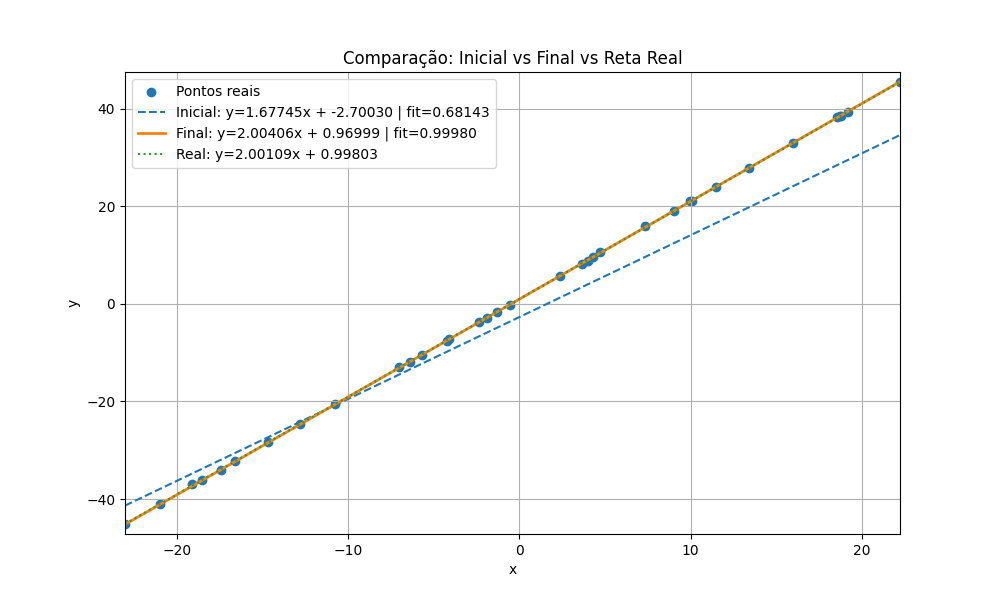
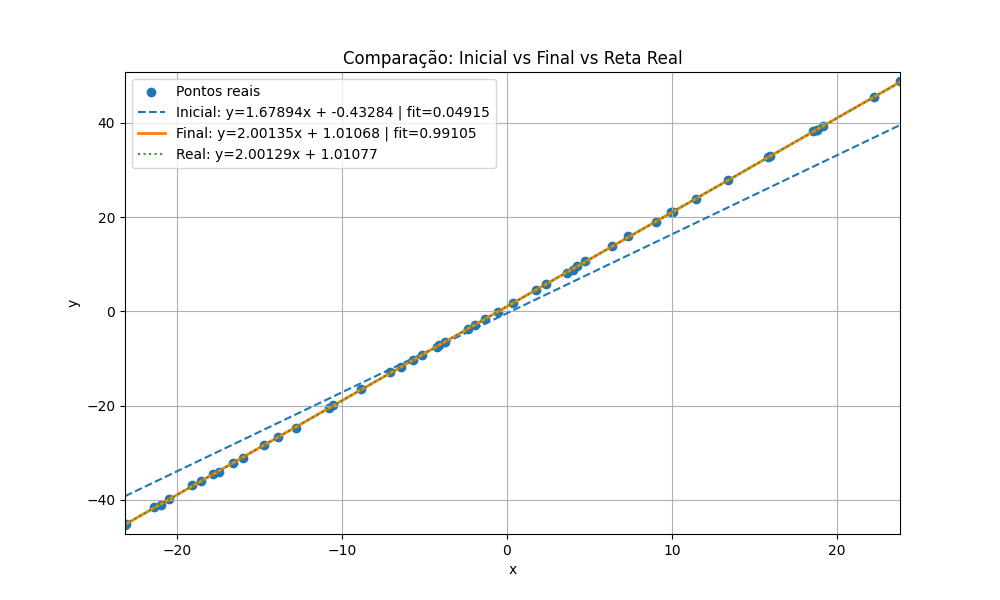
Correçoes na funcao de calcular o MSE e no Readme relacionado Remoçao de funçao nao ultilizada no algoritmo Melhoria na formatação do main

diff --git a/src/main.cpp b/src/main.cpp
@@ -15,20 +15,19 @@ int main()
     auto inicio = std::chrono::steady_clock::now();
     std::cout << "Executando algoritmo genetico...\n";
 
-    // semente fixa para reproduzir resultados
+    // Semente fixa para reprodutibilidade
     srand(42);
 
 
-    // LEITURA DE DADOS
+    //LEITURA DOS DADOS 
     EntradadaDados input = LerArquivo("data/input.dat");
 
     int populationSize = input.tamanhoPopulacao;
     int generations = input.geracoes;
-
     std::vector<Pontos> data = input.data;
 
 
-    // PRÉ-PROCESSAMENTO
+    // PRÉ-PROCESSAMENTO 
     std::vector<double> dataX;
     std::vector<double> dataY;
 
@@ -39,22 +38,26 @@ int main()
     }
 
 
-    // INICIALIZAÇÃO DA POPULAÇÃO
+    //INICIALIZAÇÃO 
     double minA, maxA, minB, maxB;
     calcularIntervalos(dataX, dataY, minA, maxA, minB, maxB);
+
     std::vector<Individuo> pop;
     gerarPopulacao(pop, populationSize, minA, maxA, minB, maxB);
 
-    double cutRate = 0.4;
-    double mutationRate = 0.05;
+    const double cutRate = 0.4;
+    const double mutationRate = 0.05;
 
+
+    //ARQUIVO DE SAÍDA 
     std::ofstream outFile("output.dat");
     outFile << "geracao fitness erro a b\n";
 
-    // LOOP PRINCIPAL (AG)
+
+    // LOOP PRINCIPAL 
     for(int gen = 0; gen < generations; gen++)
     {
-        // Avaliação
+        // Avaliação da população
         AvaliarPopulacao(pop, dataX, dataY);
 
         // Ordenação por fitness
@@ -64,36 +67,36 @@ int main()
             return a.Fitness > b.Fitness;
         });
 
-        // Melhor indivíduo da geração
-        Individuo melhor = pop[0];
-
+        // Melhor indivíduo
+        const Individuo& melhor = pop[0];
         double erro = calcularMSE(melhor, dataX, dataY);
+
         SalvarDados(outFile, gen, melhor.Fitness, erro, melhor.a, melhor.b);
 
-        // Elitismo
+
+        // REPRODUÇÃO 
         int eliteSize = pop.size() * cutRate;
-        if(eliteSize < 2)
+        if (eliteSize < 2)
             eliteSize = 2;
 
-        // -------- Reprodução --------
         for(int i = 0; i < populationSize / 2; i++)
         {
-            // seleção de pais
+            // Seleção
             Individuo p1 = selecionarPais(pop, cutRate);
             Individuo p2 = selecionarPais(pop, cutRate);
 
-            // crossover
+            // Crossover
             auto children = crossover(p1, p2);
 
-            // mutação
+            // Mutação
             mutacao(children[0], mutationRate);
             mutacao(children[1], mutationRate);
 
-            // avaliação dos filhos
+            // Avaliação dos filhos
             children[0].Fitness = calcularFitness(children[0], dataX, dataY);
             children[1].Fitness = calcularFitness(children[1], dataX, dataY);
 
-            // substituição
+            // Substituição
             SubsPior(pop, children[0]);
             SubsPior(pop, children[1]);
         }
@@ -101,10 +104,12 @@ int main()
 
     outFile.close();
 
+
+    // RESULTADO FINAL 
     auto fim = std::chrono::steady_clock::now();
     auto duracao = std::chrono::duration_cast<std::chrono::milliseconds>(fim - inicio);
-    AvaliarPopulacao(pop, dataX, dataY);
 
+    AvaliarPopulacao(pop, dataX, dataY);
     Individuo best = MelhorIndividuo(pop);
 
     std::cout << "\nMelhor solucao encontrada:\n";

diff --git a/src/operacoes.cpp b/src/operacoes.cpp
@@ -26,7 +26,6 @@ std::vector<Individuo> crossover(const Individuo& p1, const Individuo& p2)
     Individuo child1;
     Individuo child2;
 
-    // troca dos genes
     child1.a = p1.a;
     child1.b = p2.b;
 
@@ -39,12 +38,11 @@ std::vector<Individuo> crossover(const Individuo& p1, const Individuo& p2)
     return {child1, child2};
 }
 
-
-    void mutacao(Individuo& ind, double mutationRate)
-    {
-        if(((double)rand()/RAND_MAX) < mutationRate)
+void mutacao(Individuo& ind, double mutationRate)
+{
+    if(((double)rand()/RAND_MAX) < mutationRate)
             ind.a += ((double)rand()/RAND_MAX - 0.5);
 
-        if(((double)rand()/RAND_MAX) < mutationRate)
+    if(((double)rand()/RAND_MAX) < mutationRate)
             ind.b += ((double)rand()/RAND_MAX - 0.5);
     }

diff --git a/src/populacao.cpp b/src/populacao.cpp
@@ -29,13 +29,6 @@ Individuo MelhorIndividuo(const std::vector <Individuo>& populacao){
         return a.Fitness < b.Fitness;
     });
 }
-Individuo SegundoMelhorIndividuo(const std::vector<Individuo>& populacao){
-    std::vector<Individuo> OrdenarPop = populacao;
-    std::sort(OrdenarPop.begin(), OrdenarPop.end(), [](const Individuo& a, const Individuo& b){
-        return a.Fitness > b.Fitness;
-    });
-    return OrdenarPop[1];
-}
 int PiorIndividuo(const std::vector <Individuo>& populacao){
     int pior = 0;
     for (int i = 1; i < (int)populacao.size(); i++){

diff --git a/include/populacao.hpp b/include/populacao.hpp
@@ -11,7 +11,6 @@ void AvaliarPopulacao( std::vector <Individuo>& populacao, const std::vector<dou
 const std::vector<double>& y);
 
 Individuo MelhorIndividuo(const std::vector <Individuo>& populacao);
-Individuo SegundoMelhorIndividuo(const std::vector <Individuo>& populacao);
 int PiorIndividuo(const std::vector <Individuo>& populacao);
 void SubsPior(std::vector <Individuo>& populacao, const Individuo& individuo);
 void calcularIntervalos(const std::vector<double>& dataX,const std::vector<double>& dataY,double& minA, double& maxA,double& minB, double& maxB);

diff --git a/src/fitness.cpp b/src/fitness.cpp
@@ -10,7 +10,6 @@ double calcularMSE(const Individuo& individuo, const std::vector<double>& x, con
         double erro = y_previsto - y[i];
         mse += erro * erro;
     }
-    mse /= n;
     return mse / n;
 }
 

diff --git a/README.md b/README.md
@@ -228,25 +228,25 @@ O comportamento do erro foi analisado em três cenários com diferentes níveis 
  
 ### Caso 1 — Ruído forte (σ = 6), reta `y = -3x + 7`
  
-O AG partiu de um fitness inicial de `0.157` (MSE = 5.330) na geração 0 e convergiu rapidamente nas primeiras gerações. A queda mais expressiva ocorreu até a geração 50, onde o fitness já havia atingido `0.593` (MSE = 0.685). A partir daí o algoritmo estabilizou completamente, sem nenhuma melhora até a geração 299.
+O AG partiu de um fitness inicial de `0.0037` (MSE = 266.50) na geração 0 e convergiu rapidamente nas primeiras gerações. A queda mais expressiva ocorreu até a geração 50, onde o fitness já havia atingido `0.0283` (MSE = 34.2687). A partir da geração 62 o algoritmo estabilizou completamente, mantendo os mesmos parâmetros até a geração final.
  
-> **Resultado final:** `y = -3.10251x + 8.46288` · fitness `0.593352` · MSE `0.685339` · tempo `242 ms`
+> **Resultado final:** `y = -3.10251x + 8.46288` · fitness `0.0283552` · MSE `34.267` · tempo `242 ms`
  
-O desvio em `b` (8.46 vs 7.00 real) é esperado e representa o limite teórico imposto pelo ruído, a própria reta de melhor ajuste também não passa pelos pontos.
+O desvio em `b` (8.46 vs 7.00 real) é esperado e representa o limite teórico imposto pelo ruído, a própria reta de melhor ajuste também não passa pelos pontos. Com σ = 6, os dados apresentam grande dispersão, aumentando significativamente o erro médio quadrático mesmo para a melhor reta possível.
  
 ### Caso 2 — Ruído moderado (σ = 1), reta `y = 2x + 1`
  
-Com ruído menor, a convergência foi muito mais rápida e expressiva. O fitness saiu de `0.571` na geração 0 para `0.938` já na geração 1 — um salto notável logo na primeira reprodução. Até a geração 11 o fitness já havia atingido `0.986`, estabilizando nesse patamar até o final.
+Com ruído moderado, a convergência foi significativamente mais rápida. O fitness saiu de `0.0259` na geração 0 para `0.584`  já na geração 9 — um salto expressivo nas primeiras iterações. A partir da geração 11 o algoritmo praticamente convergiu, realizando apenas pequenos refinamentos até estabilizar completamente por volta da geração 100.
  
-> **Resultado final:** `y = 2.00048x + 0.889262` · fitness `0.986053` · MSE `0.014144` · tempo `245 ms`
+> **Resultado final:** `y = 2.00048x + 0.889262` · fitness `0.585754` · MSE `0.707202` · tempo `245 ms`
  
 O coeficiente angular `a = 2.00048` é virtualmente idêntico ao real. O pequeno desvio em `b` (0.889 vs 1.000) reflete o ruído residual dos dados.
  
 ### Caso 3 — Ruído mínimo (σ = 0.1), reta `y = 2x + 1`
  
-Com dados quase perfeitos, o AG demonstrou sua capacidade máxima de convergência. A partir da geração 8 o fitness já superava `0.998`, e ao longo das gerações seguintes continuou refinando progressivamente até atingir `0.9998` (MSE = 0.000200) na geração 268, onde estabilizou.
+Com dados quase perfeitos, o AG apresentou convergência extremamente rápida. Já na geração 7 o fitness ultrapassou `0.81`, e na geração 13 atingiu `0.96`, indicando forte aproximação da solução ótima. Ao longo das gerações seguintes continuou refinando progressivamente até atingir `0.991051` (MSE = 0.00902988) na geração 271, onde estabilizou.
  
-> **Resultado final:** `y = 2.00406x + 0.969988` · fitness `0.9998` · MSE `0.000200504` · tempo `239 ms`
+> **Resultado final:** `y = 2.00135x + 1.01068` · fitness `0.991051` · MSE `0.00902988` · tempo `239 ms`
  
 O refinamento foi contínuo e gradual até o final das 300 gerações, diferentemente dos casos anteriores onde a estabilização ocorreu bem antes.
  
